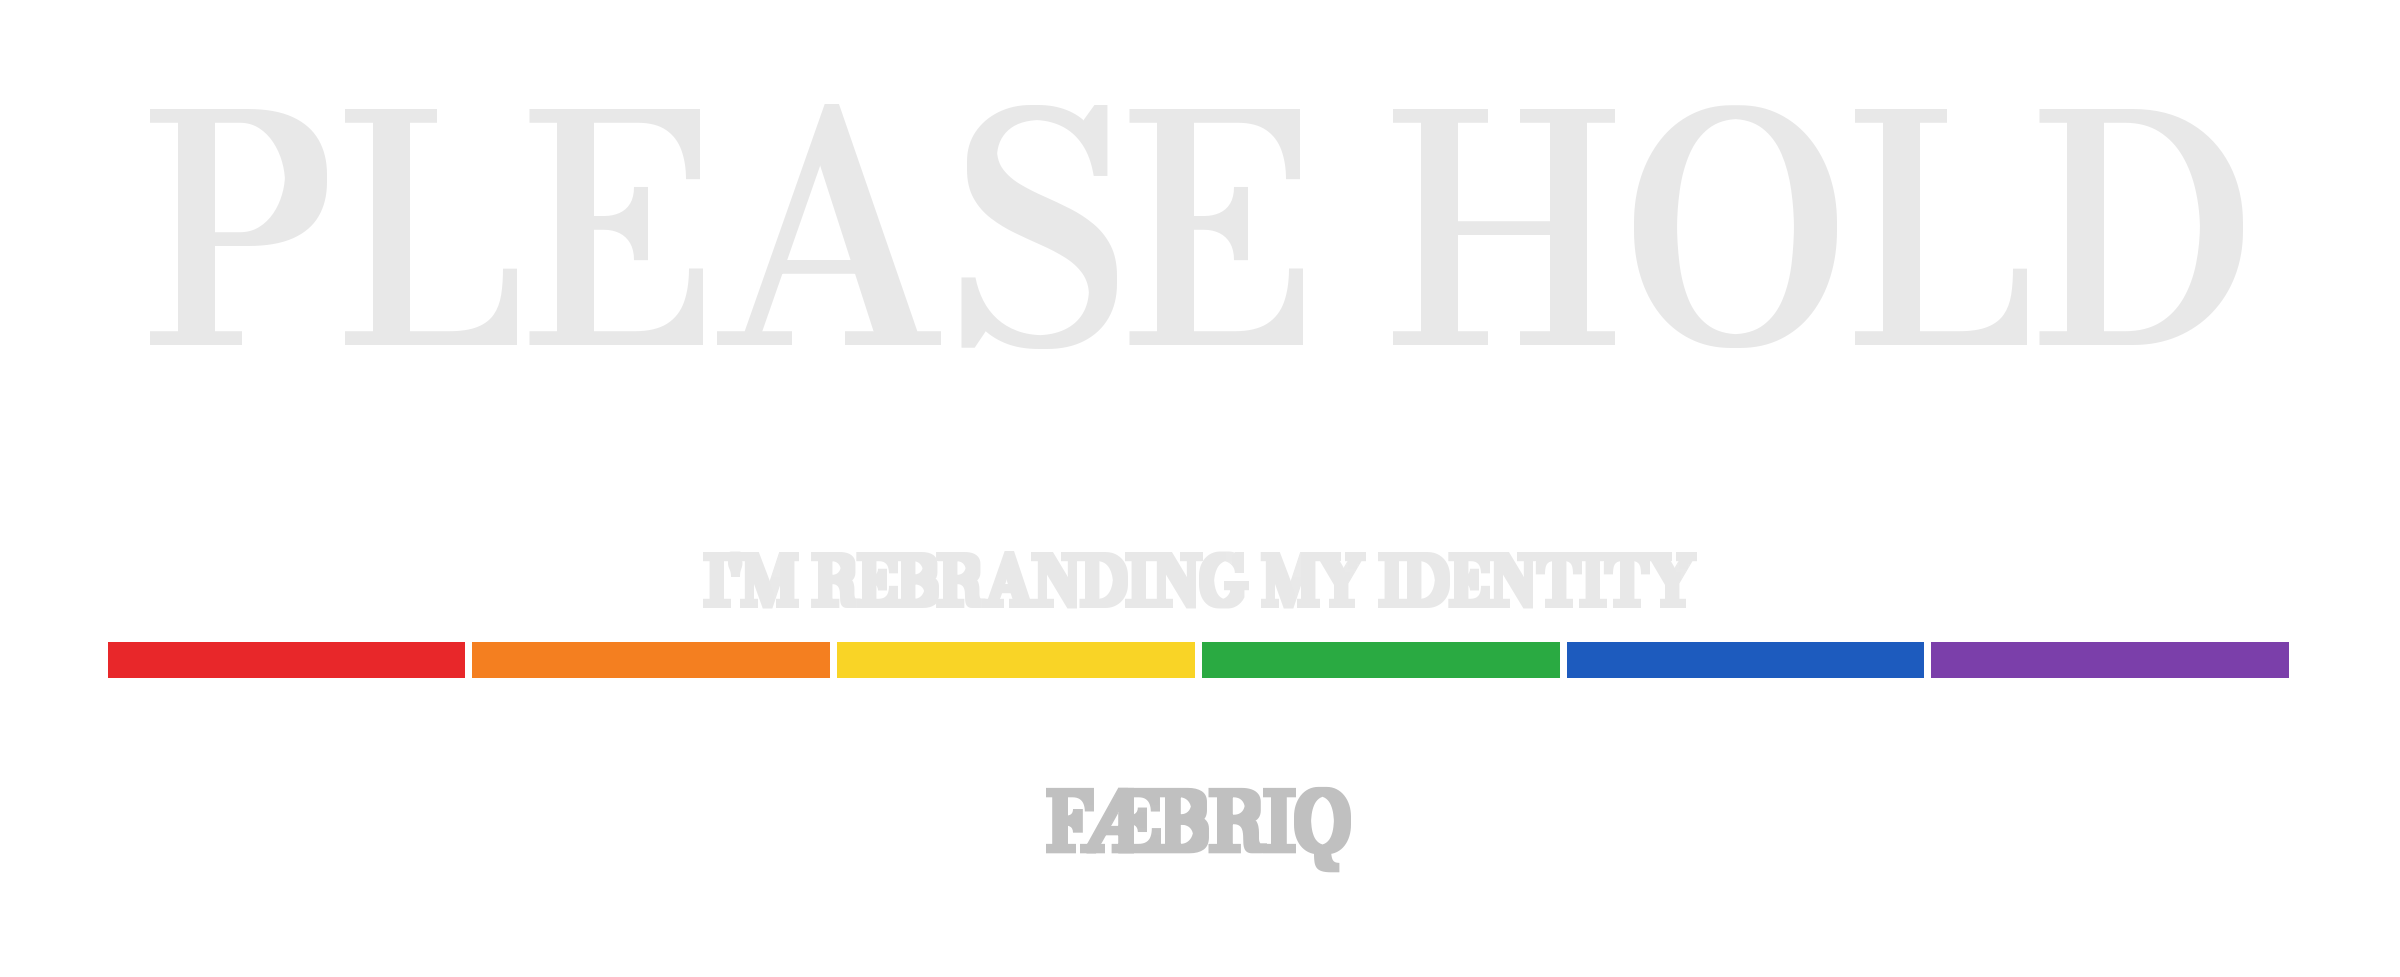
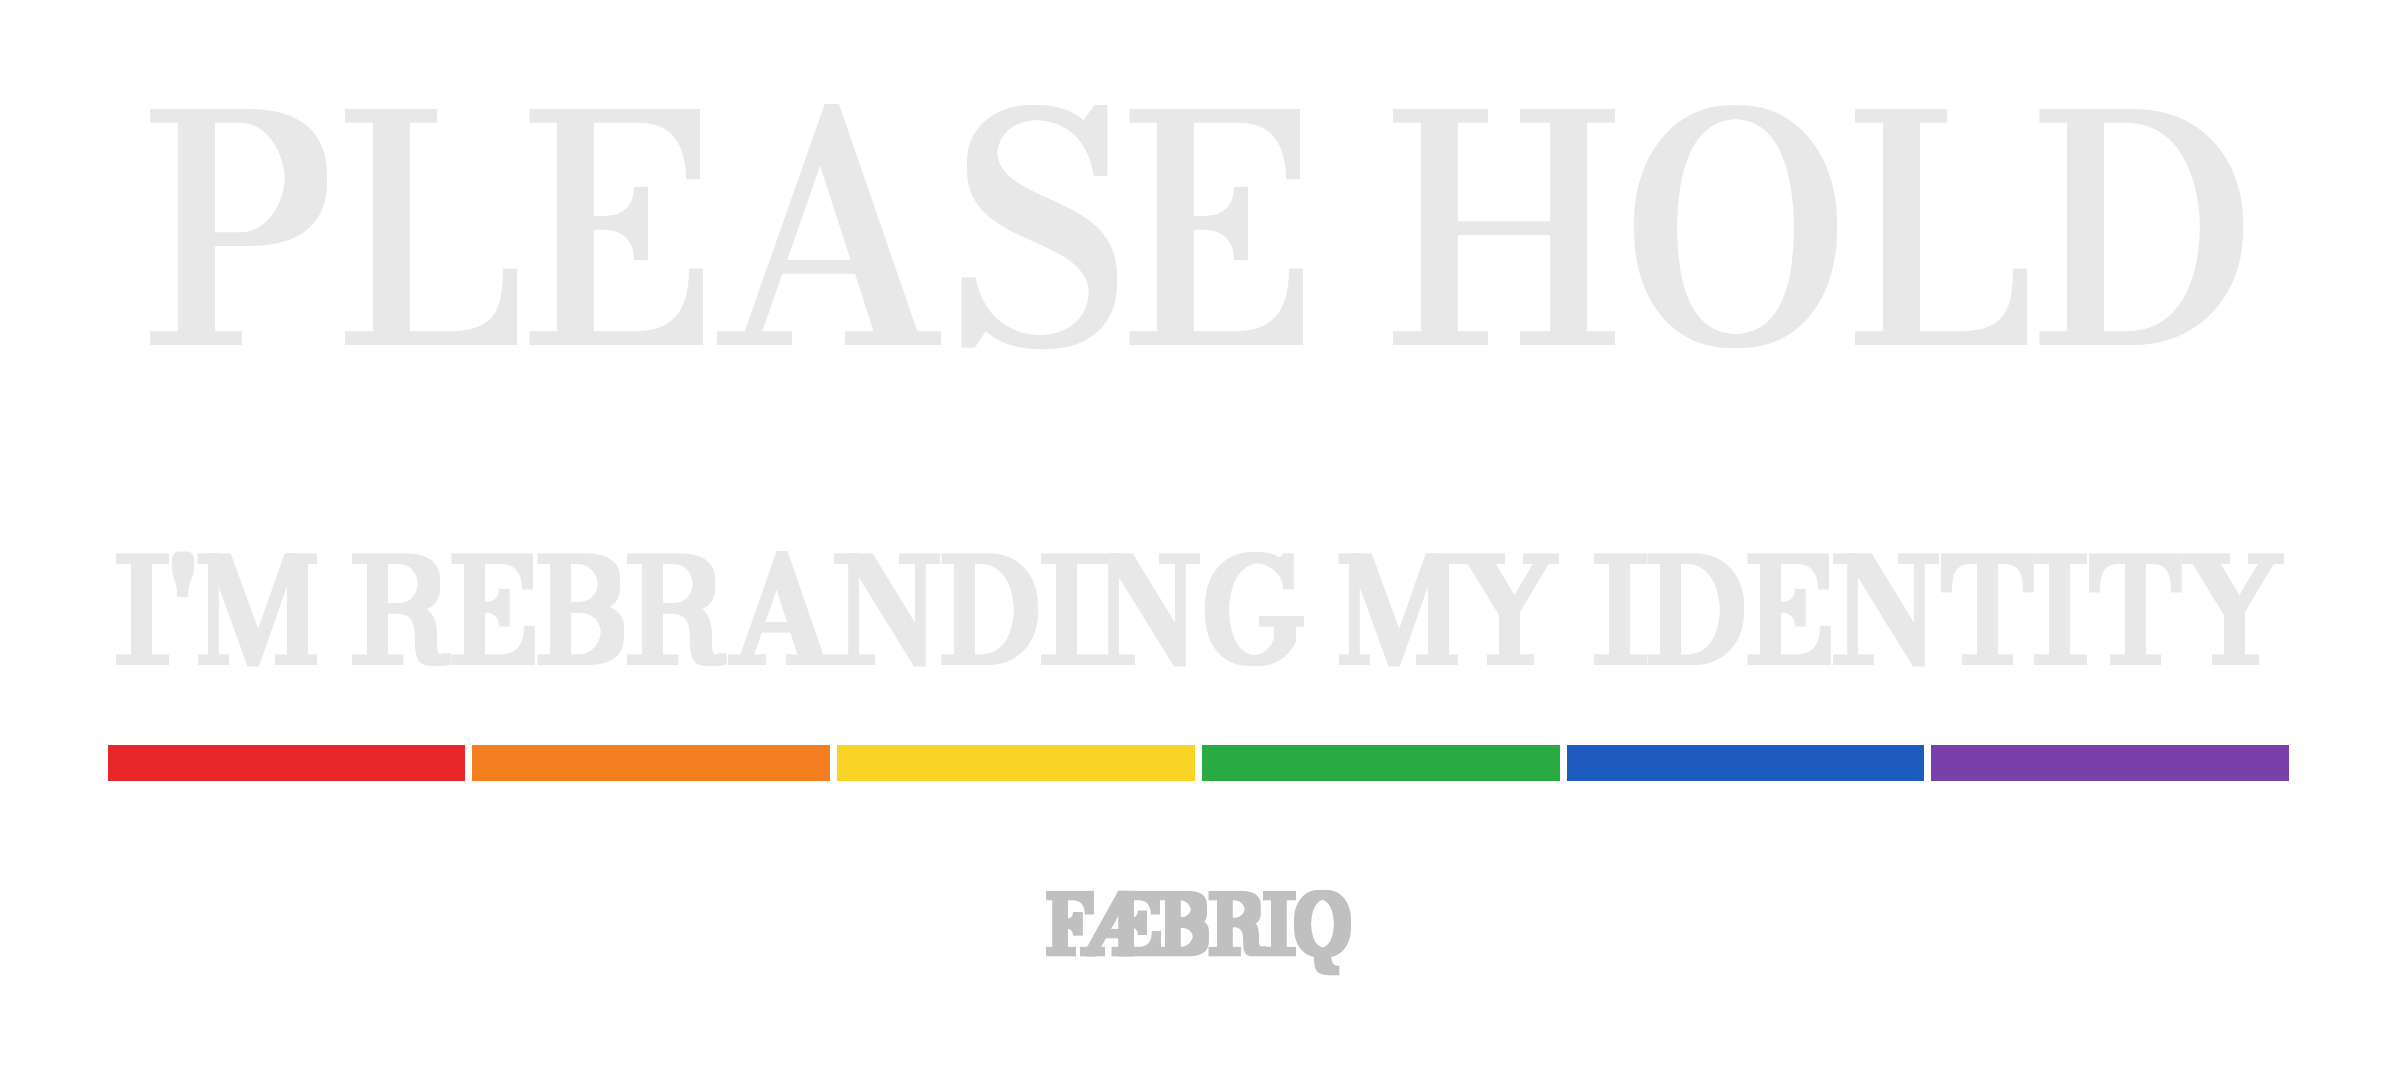
Fix Please Hold sticker line-2 size; document stale spacing formula
Claude-Session: https://claude.ai/code/session_01VwDCHt8ADP2wXBC2gUM4Zh

Changed region(s): [[0.0312, 0.6448, 0.9688, 0.7369], [0.4375, 0.7984, 0.5625, 0.9212]]

diff --git a/IMAGERY_SPEC_2026-09-23.md b/IMAGERY_SPEC_2026-09-23.md
@@ -7,7 +7,8 @@ Decisions by Maurice. Decision board: https://claude.ai/artifact/9zSaBXjVRRWu1AV
 - **Hero:** a clean studio product shot, with the print readable at thumbnail size (about 170px wide).
 - **Gallery:** exactly 4 shots per product, in the slot order below.
 - **Ground:** the brand's near-black (#0f0e0c family). Dark studio surfaces, dark scenes.
-- **Print system (reverted 2026/09/25, supersedes the same-day Inter experiment):** Bodoni Moda, white, for every tagline design. This is the founder-approved system: line spacing is derived automatically from each line's own rendered font size (`GAP_L1_L2_OF_L1_SIZE` / `GAP_L2_BAR_OF_L2_SIZE` in `tools/make_print_file.py`), not a fixed ratio, so it self-adjusts per design and never needs per-design tuning. Reference: `assets/print-art/off-the-clock-still-iconic-light-4500.png`, the exact file the founder reviewed and approved on 2026/09/10 (CHANGELOG). Any future regeneration of a shared-lockup design must be visually checked against that file's spacing before it ships, since this file is what "the spacing between the text lines and the bar" means. The bar is thin and near-continuous (hairline gaps between the 6 blocks), about 1.03x the widest text line, not the flat 1.35x no-gap bar from the 2026/09/25 Inter experiment.
+- **Print system (reverted 2026/09/25, supersedes the same-day Inter experiment):** Bodoni Moda, white, for every tagline design. The bar is thin and near-continuous (hairline gaps between the 6 blocks), about 1.03x the widest text line, not the flat 1.35x no-gap bar from the 2026/09/25 Inter experiment.
+- **Line spacing, IMPORTANT: `tools/make_print_file.py`'s formula is stale, do not regenerate from it.** The committed masters (`404-straight-not-found-v3-light-4500.png`, `code-it-serve-it-light-4500.png`, `off-the-clock-still-iconic-light-4500.png`, `deploying-identity-v2-light-4500.png`) hold hand-pixel-shifted final art from the founder's 2026/09/10 review. Their gaps are NOT reproducible by calling `make_print_file.py` fresh: its `GAP_L1_L2_OF_L1_SIZE` / `GAP_L2_BAR_OF_L2_SIZE` constants were never updated after the 09/10 pixel-shift pass, so a fresh build gives noticeably wider gaps than the shipped files. Current rule on the 4 shared-lockup masters, measured on the pixels: gap1-to-2 = gap2-to-bar = 0.25 x line-1's cap height, on all four. A further tightening pass (Off The Clock's top gap, Code It's top and bottom gaps) is in review as of 2026/09/25, not yet applied to the committed files, candidates pending the founder's pick. **Any future spacing change must be a pixel-shift on the existing master (crop the gap, shift the content below it up, same canvas size), never a re-render**, or it silently discards this approved state (the exact failure the 2026/08/27 "equal-visual-cap" incident already caused once, CHANGELOG 2026-09-08).
 - **Logo font, deliberately different from the tagline font:** the FÆBRIQ wordmark (cap front, apparel sleeve) stays in Inter SemiBold, not Bodoni. This isn't drift, it's the original documented rule (PRODUCTION_BRIEF §0): a fine serif blurs at small mark scale, so the wordmark uses a blocky sans while every tagline stays serif. Files unchanged: `logo-faebriq-1p35.png` (cap, wordmark over the stripe) and `wordmark-faebriq-sleeve.png` (sleeve, wordmark alone, no stripe).
 - **Wordmark on tagline prints:** FÆBRIQ under the stripe on stickers and the tote only, in Bodoni Moda (matches the sticker system already in place). Tees, hoodie and crewneck carry no wordmark on the chest.
 - **Brand spelling:** FÆBRIQ, with the Æ ligature, every time. The old repo mockups (`assets/mockup-*.png`, `FAEBRIQ_*_Mockup*.png`, `model-*-new.png`, `model-flatlay-new.png`) show a garbled wordmark, the circuit logo on slogan products, or an off-brand font. Never use them as a reference or as a product image.

diff --git a/CHANGELOG.md b/CHANGELOG.md
@@ -119,3 +119,5 @@ Why: Maurice's call to put every product in one system; older print files and th
 
 2026-09-25 Reverted the tagline print system from Inter back to Bodoni Moda (the 2026-09-10 founder-approved off-the-clock-still-iconic-light-4500.png is now the documented spacing reference); cap and sleeve logo stay Inter. Added a serif tote and sticker sheet, and MUSE_BRIEF_5.md superseding brief 4.
 Why: Maurice's call, the Inter tagline experiment is retired same-day it shipped.
+2026-09-25 Fixed Please Hold sticker: line 2 was 23% of line 1's size (never rebalanced in the 09-10 pass), now 45% via --l2-w=1.03, legible. Documented that make_print_file.py's spacing formula is stale vs the committed pixel-shifted masters; future spacing edits must pixel-shift the existing file, not re-render.
+Why: real bug found on the reverted Bodoni files, confirmed on pixels.
